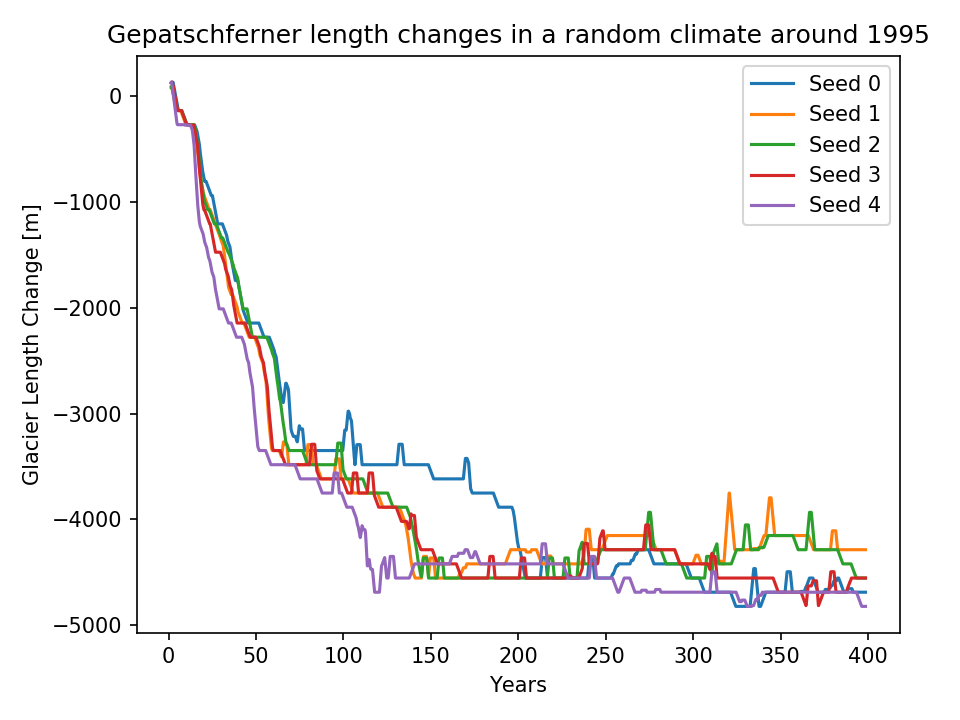
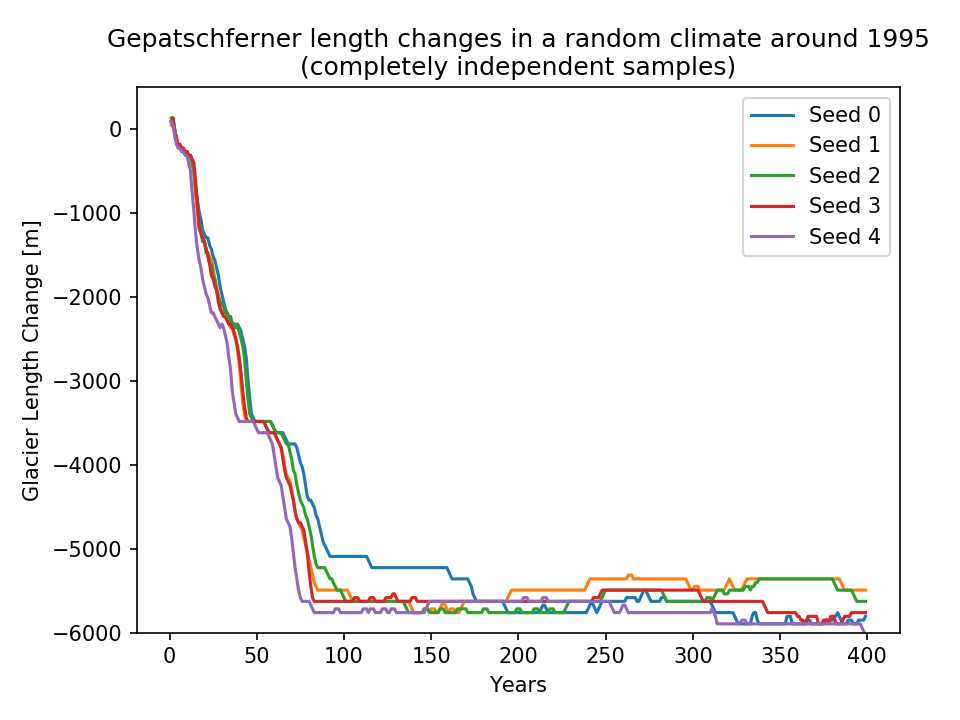
updated blog post with new random climate

diff --git a/_posts/2018-07-04-length-changes2.md b/_posts/2018-07-04-length-changes2.md
@@ -8,7 +8,9 @@ tags: science model
 ---
 
 *Note: this blog post is a work in progress and it might be edited for content
-from time to time.*
+from time to time.*  
+*The paragraph **Random climate with unique samples** was added on July 10,
+2018.*
 
 A couple of months ago Fabien Maussion wrote about [glacier length changes
 under a random climate](https://oggm.org/2017/10/23/length-changes).
@@ -26,7 +28,6 @@ With this method it is possible, but very unlikely, that one specific year
 Fabien's experiment showed for [Hintereisferner](http://acinn.uibk.ac.at/research/ice-and-climate/projects/opal)
 that with such a random climate sequence absolute length changes of the order
 of kilometers are possible.
-
 
 ## Length changes under a current random climate
 
@@ -87,7 +88,42 @@ on global and millennial scales.
 
 <a href="/img/blog/length-changes2/rdn_1995_lengths_Hintereisferner30.png"><img src="/img/blog/length-changes2/rdn_1995_lengths_Hintereisferner30.png" alt="Image missing" width="100%" /></a>
 
-### Notes
-[^1]: For simplicity all plots show a 36-months running average.
+## Random climate with unique samples (Update)
 
+In the first paragraph of this blog post we described how a random climate is
+currently determined within OGGM.
+[Meanwhile](https://github.com/OGGM/oggm/pull/502) we have implemented a second
+technique to come up with a random climate for model runs:
+
+All years from a prescribed climate period will be used in random order before
+one year can be picked again.
+In our experiment we used the 31-year period 1980-2010 and simulated 400 years.
+With this new random climate all full 31-year sub-periods of the 400 years will
+have the same mean and standard deviation.
+If a 100-year period would be used to simulate 100 years, every year would be
+exactly once but in a different order than the reference period.
+
+This random climate reduces the variability between individual runs for each
+glacier.
+But the initial retreat over the first 100 years of all glaciers is
+approximately the same as before.
+After this initial period the absolute length changes are smaller compared to
+the completely independent random climate which was used before.
+Glaciers which already showed little changes in the previous experiment after
+the first 100 years (Pasterze and Gepatschferner) now almost show no length
+changes at all.
+
+<a href="/img/blog/length-changes2/rdn_1995_lengths_Aletschgletscher_unique.png"><img src="/img/blog/length-changes2/rdn_1995_lengths_Aletschgletscher_unique.png" alt="Image missing" width="50%" style="float:left" /></a>
+<a href="/img/blog/length-changes2/rdn_1995_lengths_Tschierva_unique.png"><img src="/img/blog/length-changes2/rdn_1995_lengths_Tschierva_unique.png" alt="Image missing" width="50%" /></a>
+
+
+<a href="/img/blog/length-changes2/rdn_1995_lengths_Pasterze_unique.png"><img src="/img/blog/length-changes2/rdn_1995_lengths_Pasterze_unique.png" alt="Image missing" width="50%" style="float:left" /></a>
+<a href="/img/blog/length-changes2/rdn_1995_lengths_Gepatschferner_unique.png"><img src="/img/blog/length-changes2/rdn_1995_lengths_Gepatschferner_unique.png" alt="Image missing" width="50%" /></a>
+
+We do **explicitly not** say that one random climate is superior to  or even
+more *true* than the other one. This is just to illustrate different methods.
+Which one to choose will depend on your particular question.
+
+### Footnotes
+[^1]: For simplicity all plots show a 3-year running average.  
 [^2]: All glaciers are initialised with today's glacier geometry as provided by the [Randolph Glacier Inventory 6.0](https://www.glims.org/RGI/)
